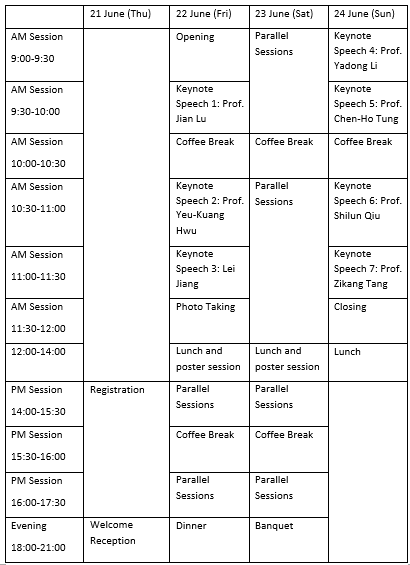
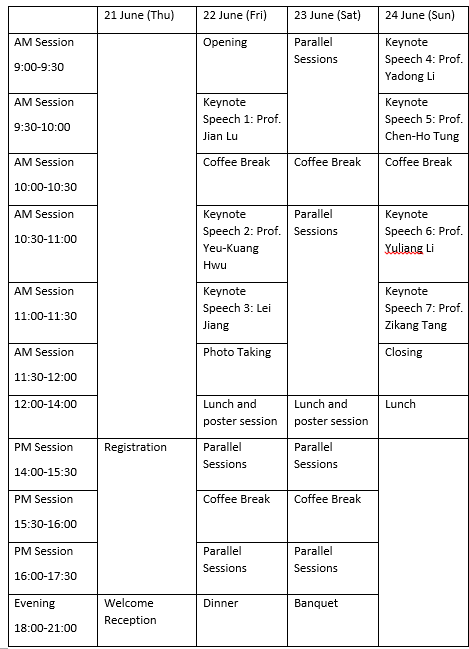
Initial commit

Changed region(s): [[0.0, 0.0, 1.0, 1.0]]

diff --git a/index.html b/index.html
@@ -103,7 +103,7 @@
 			<p>3. Prof. Dr. Lei Jiang from Technical Institute of Physics and Chemistry, Chinese Academy of Sciences
 			<p>4. Prof. Dr. Yadong Li from Tsinghua University
 			<p>5. Prof. Dr. Chen-Ho Tung from Technical Institute of Physics and Chemistry, Chinese Academy of Sciences
-			<p>6. Prof. Dr. Shilun Qiu from Jilin University
+			<p>6. Prof. Dr. Yuliang Li from Institute of Chemistry, Chinese Academy of Sciences
 		  <p>7. Prof. Dr. Zikang Tang from University of Macau </p>
 		</section>
 	</div>
